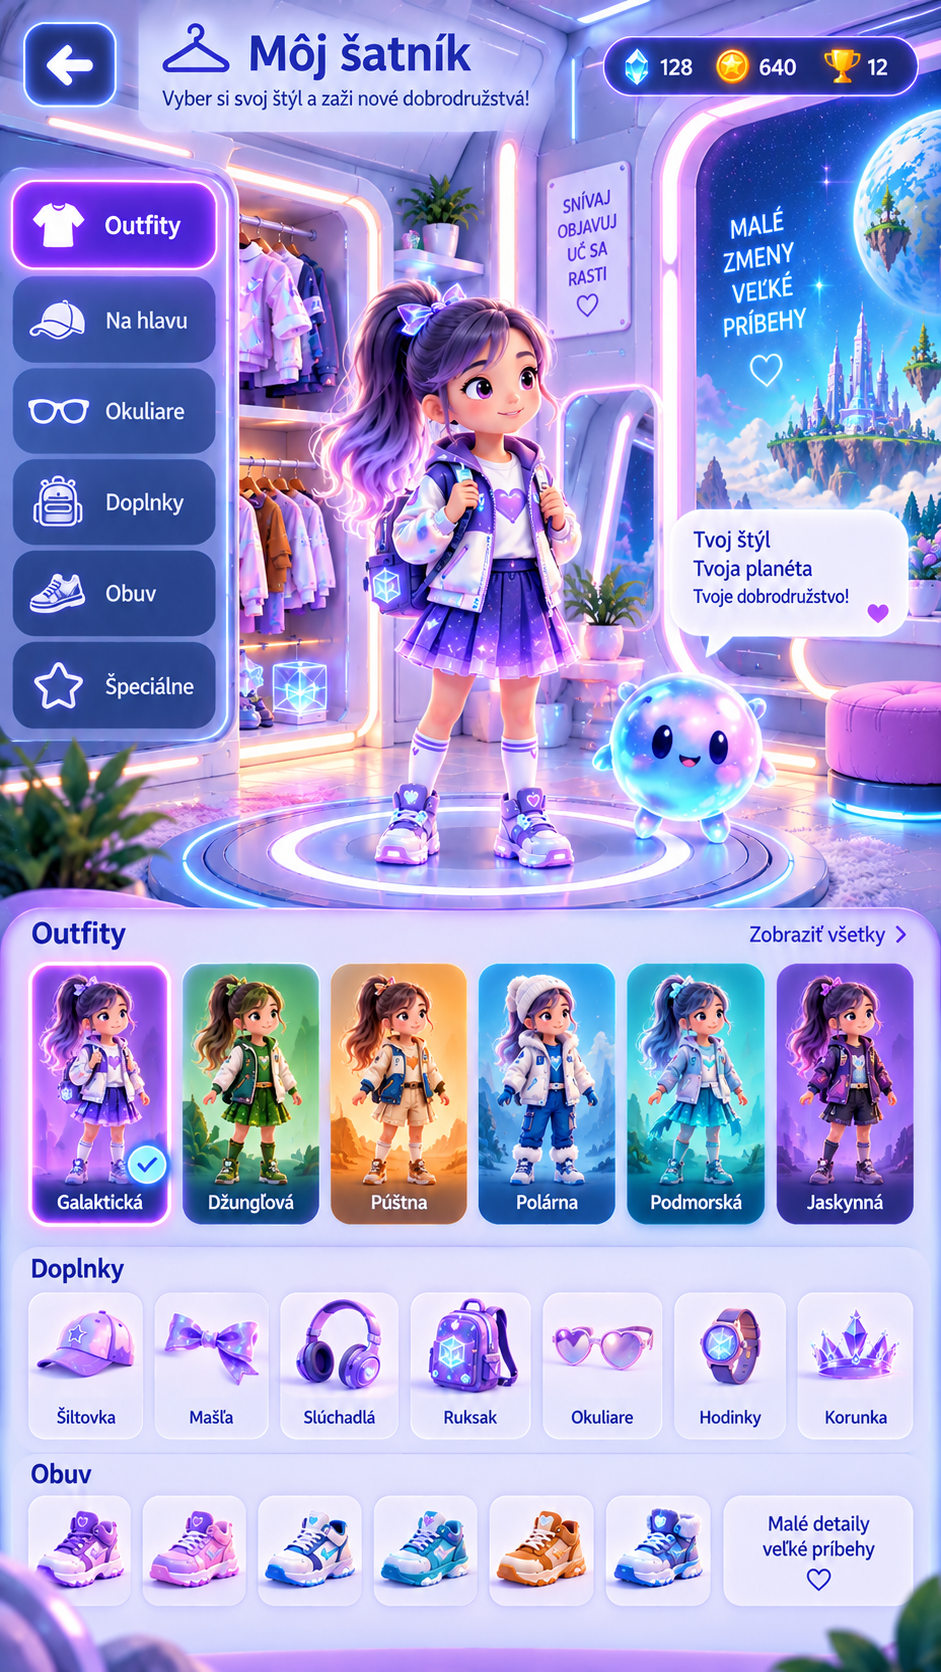
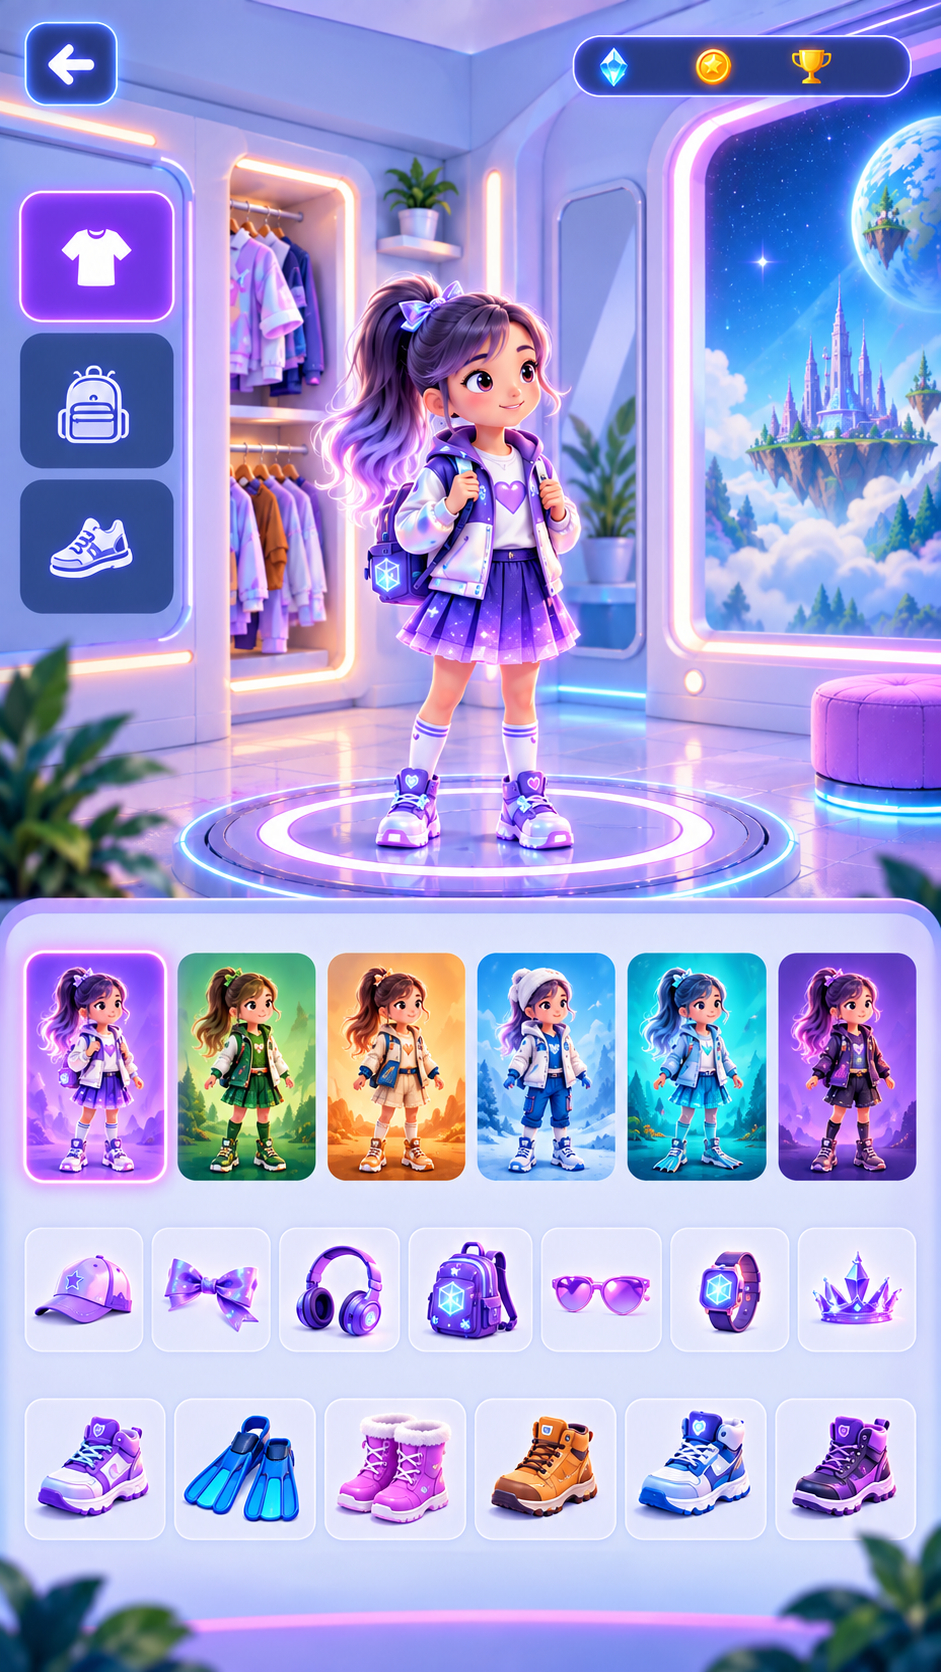
Make Môj šatník outfit/accessory/shoe tiles clickable
Outfit tiles swap the center avatar to a cropped, zoomed-in view of
the clicked outfit (sprite-style crop of the same scene image, no new
assets needed). Accessory and shoe tiles get a selection ring +
checkmark; they don't change the avatar yet since that needs separate
transparent cutout art per item.

Fixes: a global max-width:100% reset (from Tailwind preflight) was
silently capping the sprite image's inline width, so the outfit
preview rendered blank. Also nudged the outfit row's hit-box down
slightly so the selection ring hugs the card.

diff --git a/app/talumi/MojSatnik.tsx b/app/talumi/MojSatnik.tsx
@@ -1,6 +1,6 @@
 "use client";
 
-import React from "react";
+import React, { useState } from "react";
 import type { AvatarId } from "./AvatarSelect";
 
 const SATNIK_SCENE: Record<AvatarId, string> = {
@@ -8,13 +8,110 @@ const SATNIK_SCENE: Record<AvatarId, string> = {
   chlapec: "/satnik-scene-chlapec.png",
 };
 
+// Reference frame: the actual pixel size of the scene PNGs. All row/cell
+// geometry below is measured in this frame, then converted to percentages
+// so it scales with the responsive layout.
+const IMG_W = 941;
+const IMG_H = 1672;
+
+const OUTFIT_COUNT = 6;
+const OUTFIT_ROW = { top: 0.548, height: 0.145 }; // fraction of IMG_H
+const ACCESSORY_COUNT: Record<AvatarId, number> = { chlapec: 6, dievca: 7 };
+const ACCESSORY_ROW = { top: 0.723, height: 0.095 };
+const SHOE_COUNT = 6;
+const SHOE_ROW = { top: 0.815, height: 0.11 };
+
+// Box the "live preview" (swapped outfit) fills, below the header and
+// above the outfit row.
+const PREVIEW_BOX = { left: 20, top: 150, width: 901, height: 774.6 }; // px in reference frame
+const PREVIEW_SCALE = PREVIEW_BOX.height / (IMG_H * OUTFIT_ROW.height);
+const PREVIEW_IMG_WIDTH_PCT = (IMG_W * PREVIEW_SCALE) / PREVIEW_BOX.width * 100;
+const PREVIEW_IMG_TOP_PCT = (-(IMG_H * OUTFIT_ROW.top) * PREVIEW_SCALE) / PREVIEW_BOX.height * 100;
+const OUTFIT_CELL_W = IMG_W / OUTFIT_COUNT;
+const PREVIEW_CENTER_OFFSET = (PREVIEW_BOX.width - OUTFIT_CELL_W * PREVIEW_SCALE) / 2;
+
+function previewLeftPct(index: number) {
+  const px = PREVIEW_CENTER_OFFSET - index * OUTFIT_CELL_W * PREVIEW_SCALE;
+  return (px / PREVIEW_BOX.width) * 100;
+}
+
+function rowCellStyle(row: { top: number; height: number }, count: number, index: number): React.CSSProperties {
+  return {
+    left: `${(index / count) * 100}%`,
+    top: `${row.top * 100}%`,
+    width: `${(1 / count) * 100}%`,
+    height: `${row.height * 100}%`,
+  };
+}
+
 export function MojSatnik({ avatar, onBack }: { avatar: AvatarId; onBack: () => void }) {
+  const [outfit, setOutfit] = useState<number | null>(null);
+  const [accessory, setAccessory] = useState<number | null>(null);
+  const [shoe, setShoe] = useState<number | null>(null);
+  const accessoryCount = ACCESSORY_COUNT[avatar];
+  const scene = SATNIK_SCENE[avatar];
+
   return (
     <main className="bunker-screen">
       <div className="bunker-scene">
-        <img className="bunker-scene-bg" src={SATNIK_SCENE[avatar]} alt="Môj šatník" draggable={false} />
+        <img className="bunker-scene-bg" src={scene} alt="Môj šatník" draggable={false} />
+
+        {outfit !== null && (
+          <div
+            className="satnik-preview-box"
+            style={{
+              left: `${(PREVIEW_BOX.left / IMG_W) * 100}%`,
+              top: `${(PREVIEW_BOX.top / IMG_H) * 100}%`,
+              width: `${(PREVIEW_BOX.width / IMG_W) * 100}%`,
+              height: `${(PREVIEW_BOX.height / IMG_H) * 100}%`,
+            }}
+          >
+            <img
+              src={scene}
+              alt=""
+              aria-hidden="true"
+              style={{
+                position: "absolute",
+                maxWidth: "none",
+                width: `${PREVIEW_IMG_WIDTH_PCT}%`,
+                left: `${previewLeftPct(outfit)}%`,
+                top: `${PREVIEW_IMG_TOP_PCT}%`,
+              }}
+            />
+          </div>
+        )}
 
         <button className="bunker-hotspot hotspot-satnik-back" onClick={onBack} aria-label="Späť do bunkra" />
+
+        {Array.from({ length: OUTFIT_COUNT }).map((_, i) => (
+          <button
+            key={`outfit-${i}`}
+            className={`bunker-hotspot satnik-pick ${outfit === i ? "selected" : ""}`}
+            style={rowCellStyle(OUTFIT_ROW, OUTFIT_COUNT, i)}
+            onClick={() => setOutfit(i)}
+            aria-label={`Outfit ${i + 1}`}
+          />
+        ))}
+
+        {Array.from({ length: accessoryCount }).map((_, i) => (
+          <button
+            key={`accessory-${i}`}
+            className={`bunker-hotspot satnik-pick ${accessory === i ? "selected" : ""}`}
+            style={rowCellStyle(ACCESSORY_ROW, accessoryCount, i)}
+            onClick={() => setAccessory(accessory === i ? null : i)}
+            aria-label={`Doplnok ${i + 1}`}
+          />
+        ))}
+
+        {Array.from({ length: SHOE_COUNT }).map((_, i) => (
+          <button
+            key={`shoe-${i}`}
+            className={`bunker-hotspot satnik-pick ${shoe === i ? "selected" : ""}`}
+            style={rowCellStyle(SHOE_ROW, SHOE_COUNT, i)}
+            onClick={() => setShoe(shoe === i ? null : i)}
+            aria-label={`Obuv ${i + 1}`}
+          />
+        ))}
       </div>
     </main>
   );

diff --git a/app/talumi/bunker.css b/app/talumi/bunker.css
@@ -96,6 +96,36 @@
 
 .hotspot-satnik-back { left: 1.5%; top: 0.8%; width: 12%; height: 6%; border-radius: 50%; }
 
+.satnik-preview-box {
+  position: absolute;
+  overflow: hidden;
+  border-radius: 22px;
+  z-index: 1;
+  background: #eef1fb;
+  box-shadow: 0 0 0 3px rgba(255, 255, 255, .6), 0 14px 30px rgba(33, 18, 60, .25);
+}
+
+.satnik-pick.selected {
+  border-radius: 16px;
+  box-shadow: 0 0 0 3px #fff, 0 0 0 6px var(--bunker-turquoise);
+}
+.satnik-pick.selected::after {
+  content: "✓";
+  position: absolute;
+  top: -8px;
+  right: -8px;
+  width: 22px;
+  height: 22px;
+  border-radius: 50%;
+  background: var(--bunker-turquoise);
+  color: #0a1b33;
+  font-size: 12px;
+  font-weight: 1000;
+  display: grid;
+  place-items: center;
+  box-shadow: 0 2px 6px rgba(0, 0, 0, .3);
+}
+
 .hotspot-chill { left: 1%; top: 25.5%; width: 35%; height: 8%; }
 .hotspot-school { left: 41.5%; top: 27%; width: 33%; height: 7%; }
 .hotspot-math { left: 73.5%; top: 33%; width: 26%; height: 7%; }
